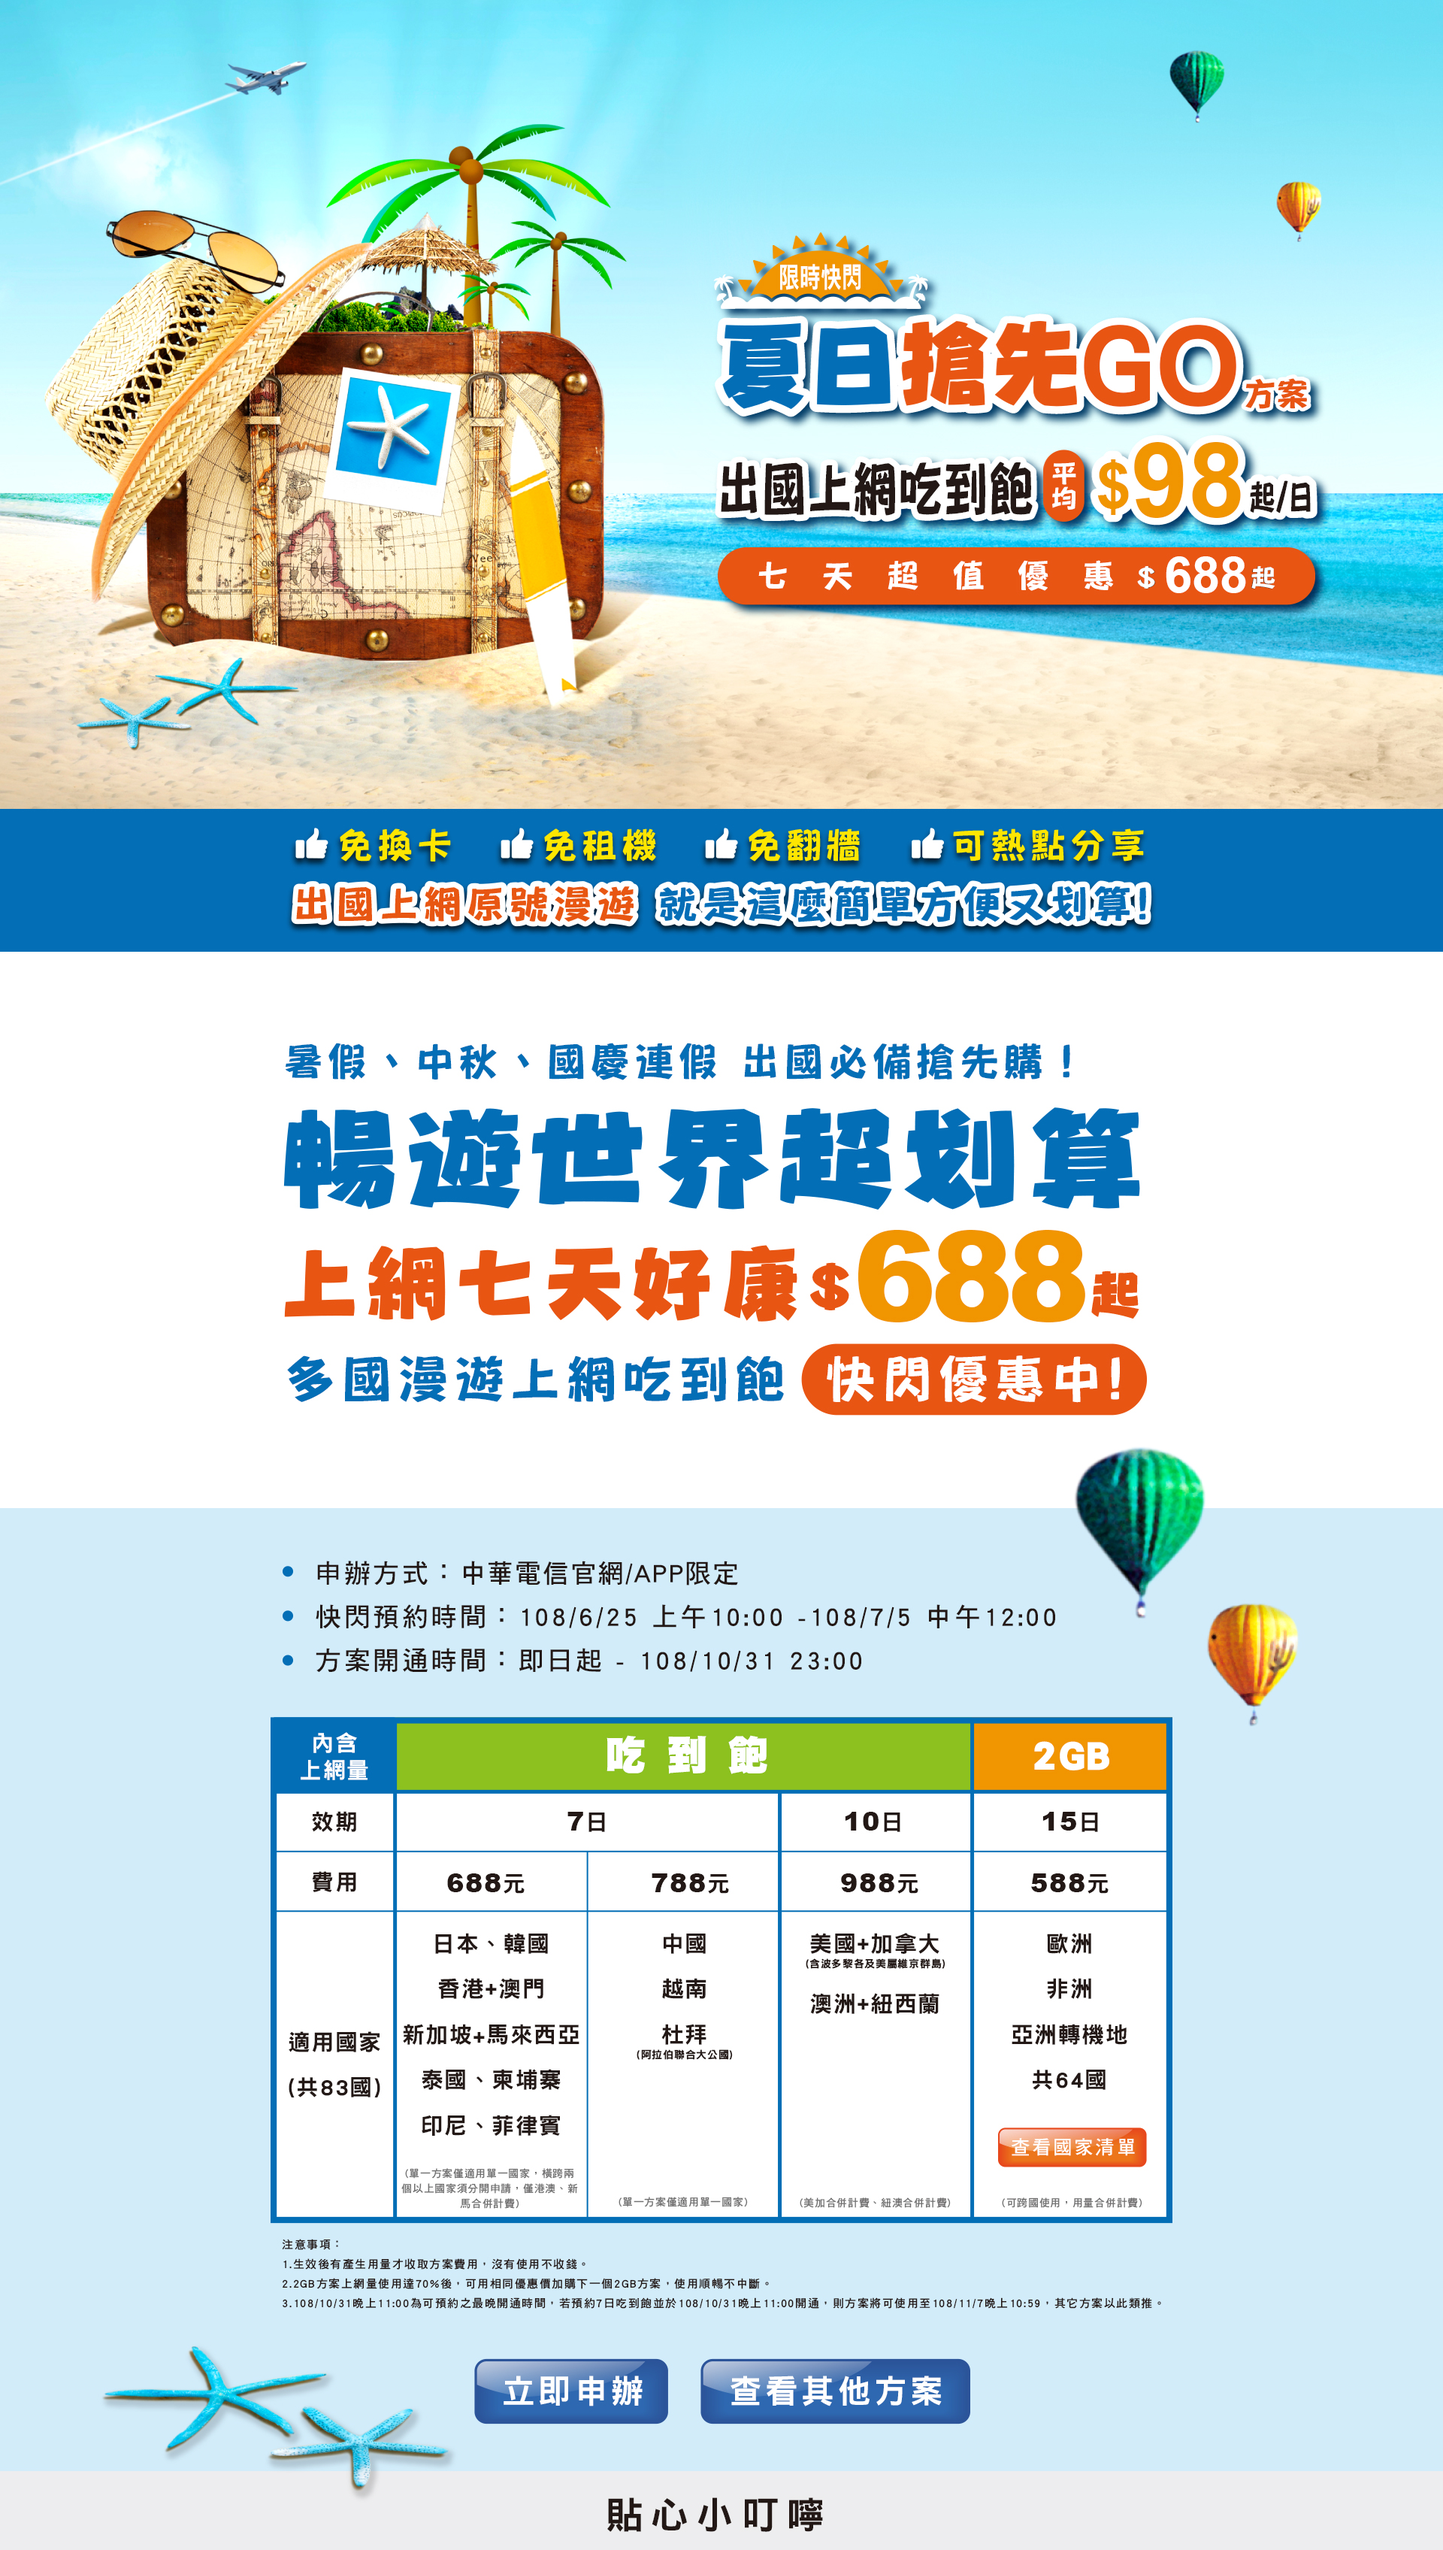
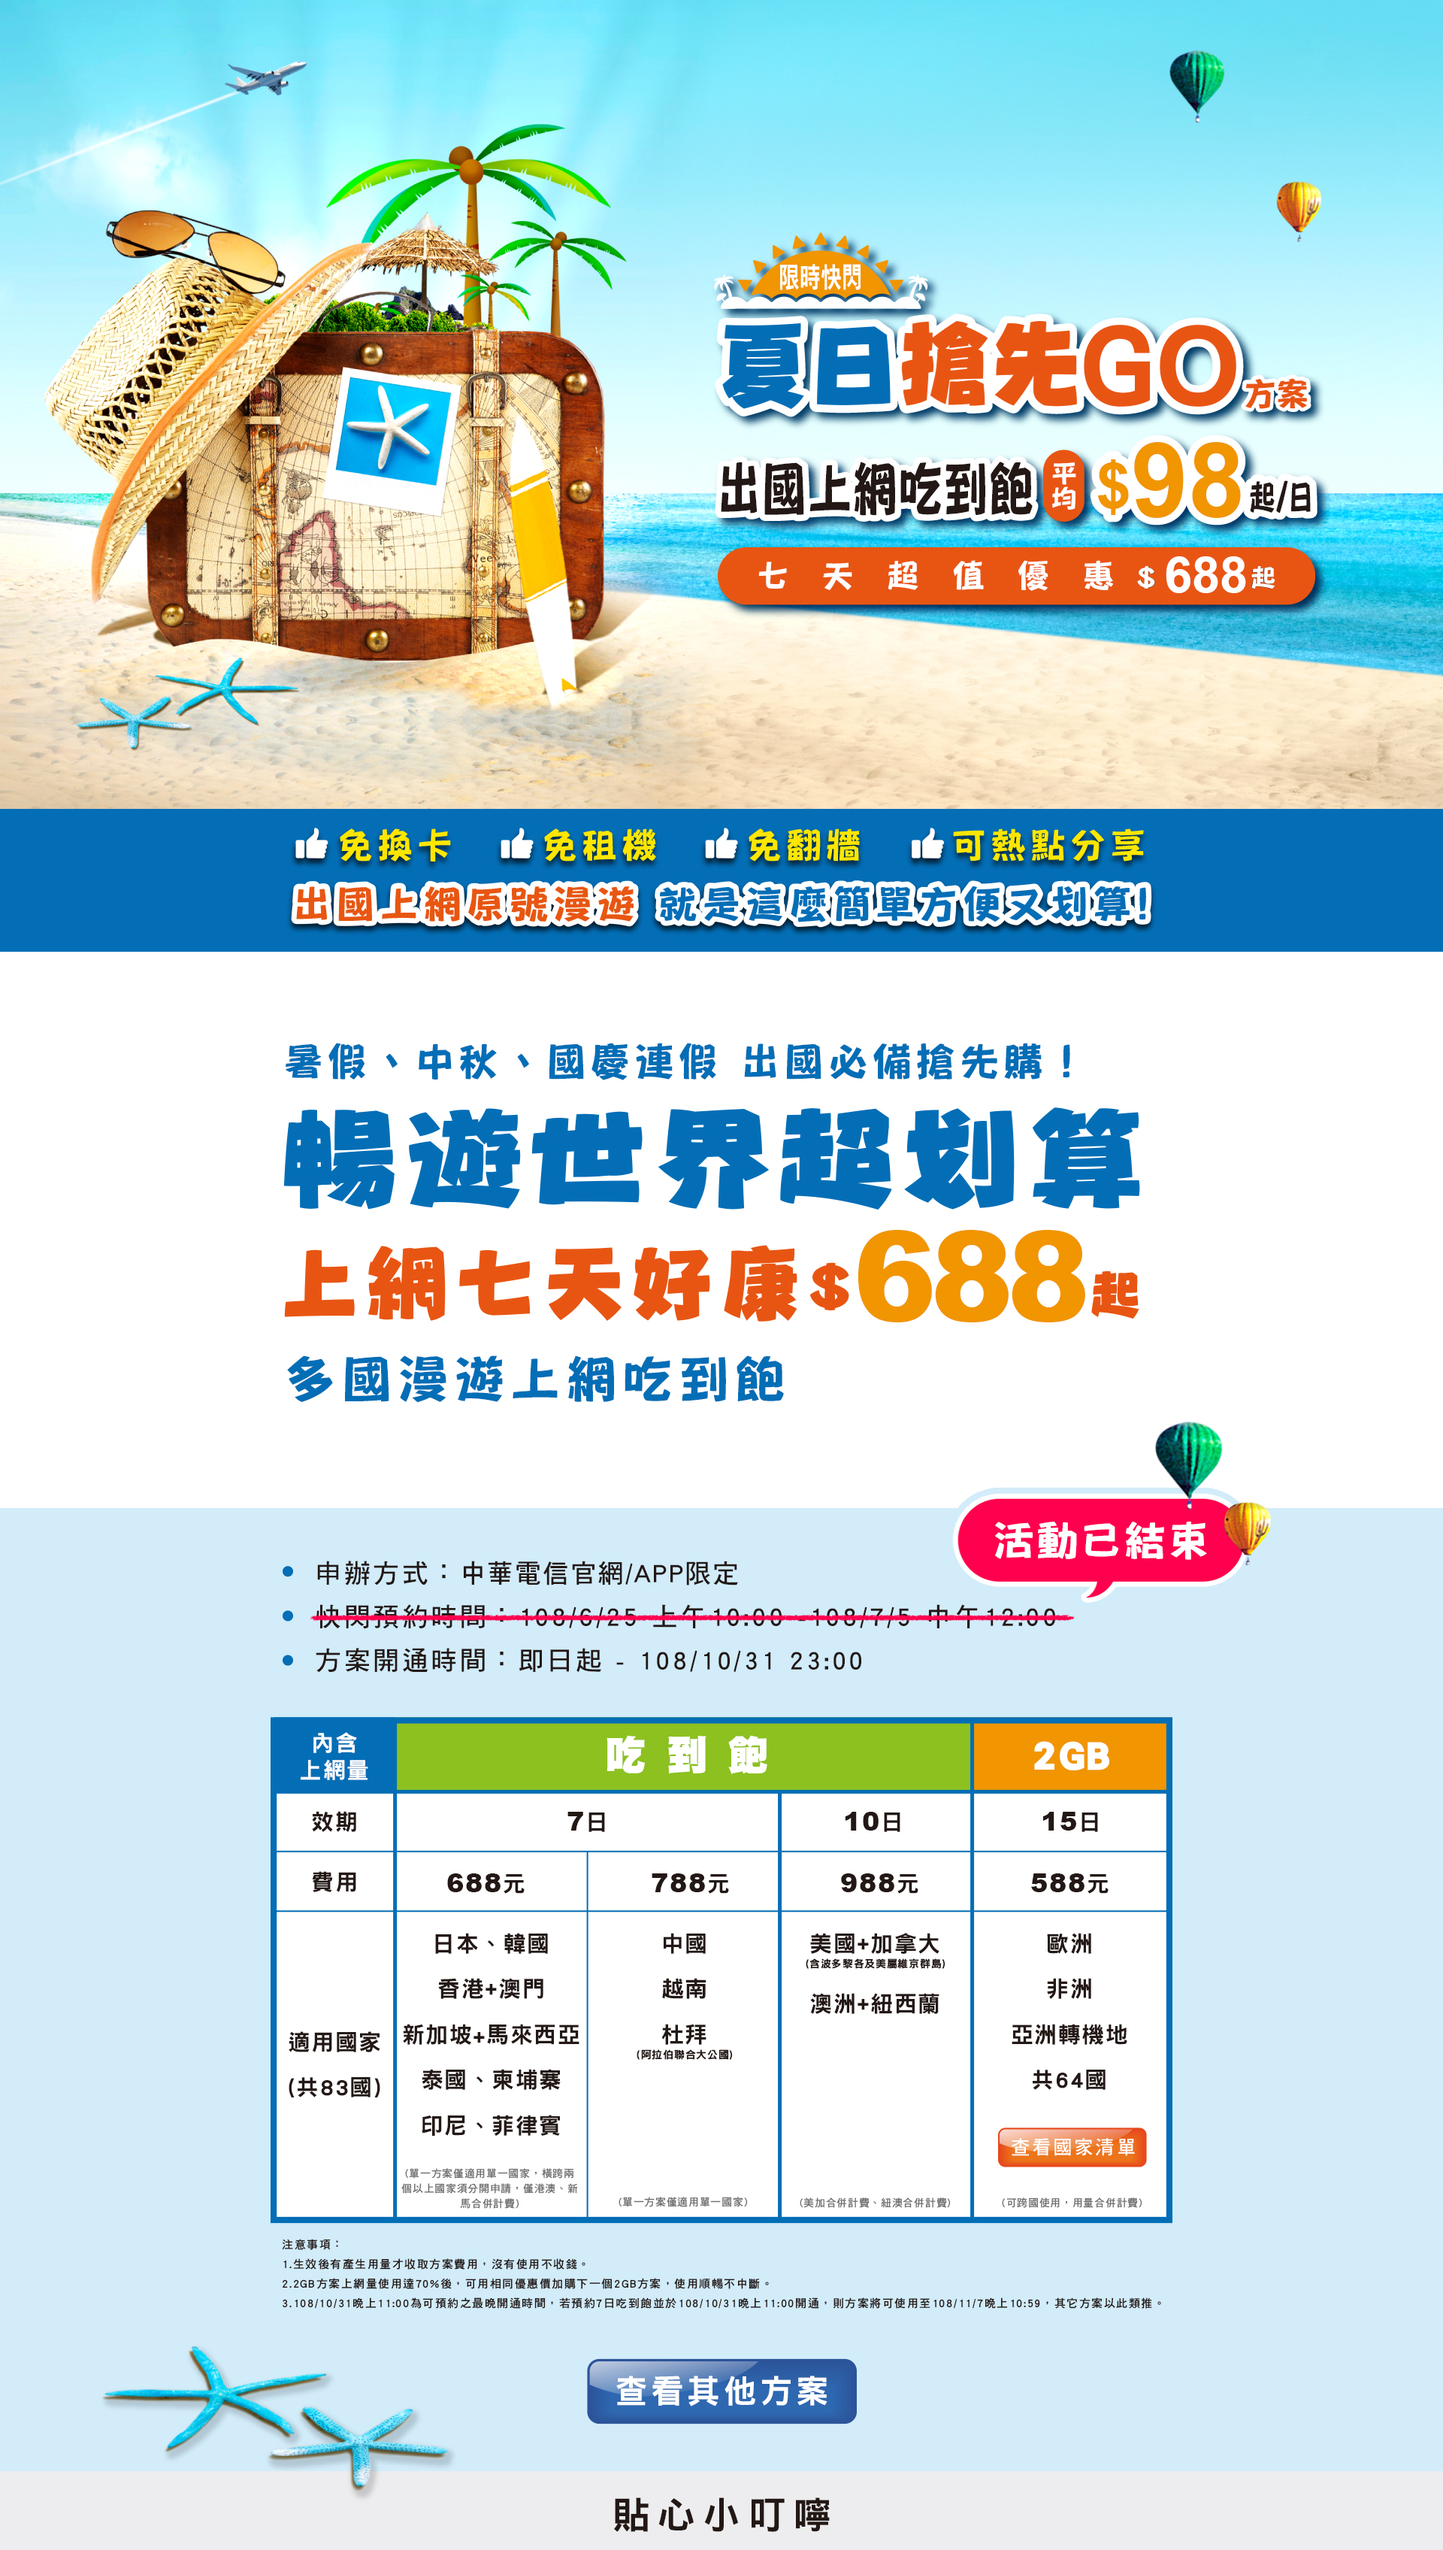
國際漫遊
更換下架內容

Changed region(s): [[0.5312, 0.5, 0.9062, 0.6875], [0.3125, 0.9062, 0.6875, 1.0]]

diff --git a/demo/international/roaming/holidaygo.html b/demo/international/roaming/holidaygo.html
@@ -174,8 +174,7 @@ j=d.createElement(s),dl=l!='dataLayer'?'&l='+l:'';j.async=true;j.src=
 		<div class="KV">
 			<img src="images/KV.jpg" usemap="#image-map">
 			<map name="image-map">
-				<area href="https://eshop.cht.com.tw/RoamingWeb/Personal/Roaming/FlashSale" coords="633,3134,893,3226" onclick="gtag('event', 'flash-sale', {'event_category': 'home', 'event_label': 'home'})"; shape="rect">
-			    <area href="https://www.cht.com.tw/home/Campaign/roaming/index.html" coords="932,3136,1293,3229" onclick="gtag('event', 'flash-home', {'event_category': 'home', 'event_label': 'home'})"; shape="rect">
+			    <area href="https://www.cht.com.tw/home/Campaign/roaming/index.html" coords="783,3141,1144,3224" onclick="gtag('event', 'flash-home', {'event_category': 'home', 'event_label': 'home'})"; shape="rect">
 			    <area data-featherlight="#fl1" href="#" coords="1329,2831,1524,2876" onclick="gtag('event', 'country', {'event_category': 'home', 'event_label': 'home'})"; shape="rect">
 			</map>
 		</map>

diff --git a/demo/international/roaming/index.html b/demo/international/roaming/index.html
@@ -4607,8 +4607,8 @@
 
     <div class="container_page">
         <div class="kv">
-            <img class="img_pc" src="img/kv.jpg" border="0">
-            <img class="img_moblie" src="img/kv588-m.jpg" border="0">
+            <img class="img_pc" src="img/KV.jpg" border="0">
+            <img class="img_moblie" src="img/KV_m.jpg" border="0">
         </div>
 
 
